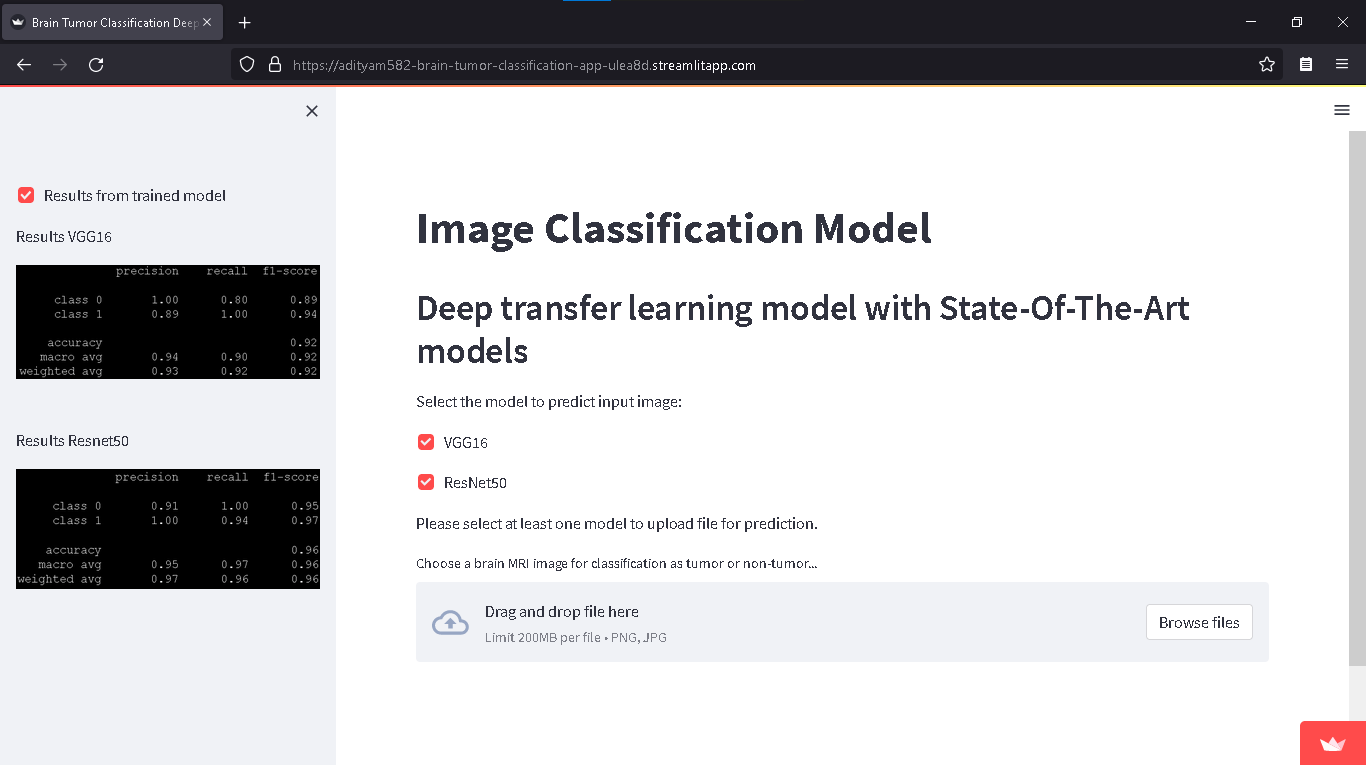
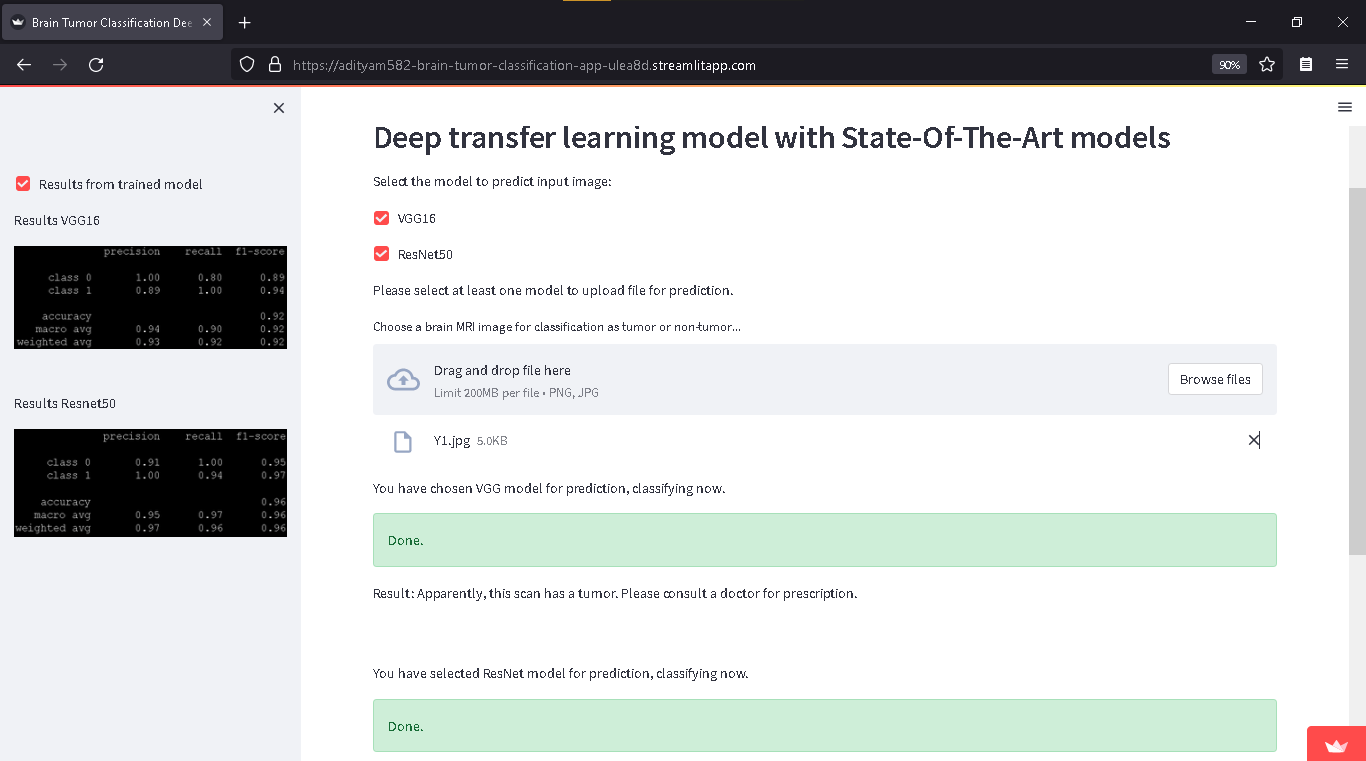
portfolio

diff --git a/_pages/myportfolio.md b/_pages/myportfolio.md
@@ -21,34 +21,67 @@ collection: portfolio
 
 * This is an end-to-end machine learning lifecycle project, when I started from picking the dataset up to deploying as a web application. This helped me learn various nuance of a ML project development. 
 
+* We follow ML workflow as depicted in the figure below
+
+Machine Learning Workflow
+
+![ML Workflow](../images/ML_Workflow.png 'size=20')
+
+Image Credits: Strata London - Deep Learning, Turi, Inc. [link](http://www.slideshare.net/turi-inc/strata-london-deep-learning-052015)
+
+* After the ML Model is created, we use transfer learning, with workflow as shown below:
+
+Transfer Learning Workflow
+
+![Transfer Learning Workflow](../images/TL_Workflow.jpg)
+
+Image Credits: big-data-and-business-intelligence, Packtpub [link](https://subscription.packtpub.com/book/big_data_and_business_intelligence/9781788831307/1/ch01lvl1sec13/standard-ml-workflow)
+
 * This is a project, making computers to learn to predict, if an image contains traces of tumor. 
+
+* **Skills:** Python, Tensorflow, Keras, Numpy, Pandas, Streamlit, Heroku
 
 * Sounds interesting, want to try out yourself? Simply use any webpage and upload image.
 
-Click here to use application deployed on [Streamlit](https://adityam582-brain-tumor-classification-app-ulea8d.streamlitapp.com/)
+This is the screenshot from deployed web application:
+![DL Project](../images/DL_project_NeuroAI.png)
 
-Click here to use application deployed on [Heroku](https://neuroai-image-classifier.herokuapp.com/)
+* Click here to use application deployed on [Streamlit](https://adityam582-brain-tumor-classification-app-ulea8d.streamlitapp.com/)
 
-**Skills:** Python, Tensorflow, Keras, Numpy, Pandas, Streamlit
-
-![Adityam582.github.io\images\DL_project_NeuroAI.png](DL_project_NeuroAI.png)
-
-![DL_project_NeuroAI.png](Adityam582.github.io\images\DL_project_NeuroAI.png)
+* Click here to use application deployed on [Heroku](https://neuroai-image-classifier.herokuapp.com/)
 
 
 
+<!-- ![https://Adityam582.github.io\images\DL_project_NeuroAI.png](DL_project_NeuroAI.png)
+
+![DL_project_NeuroAI.png](https://Adityam582.github.io\images\DL_project_NeuroAI.png)
+ -->
+<!-- 
+[![DL Project](https://Adityam582.github.io\images\DL_project_NeuroAI.png)](https://adityam582.github.io) -->
 
 ## New York City Taxi Trip Data Analysis (Big Data: Data Analysis)
 
-* The purpose of our project is to study and analyse traffic patterns and insights from the data obtained from a fleet of taxi operating in New York City. 
+* **Purpose:** to analyse traffic patterns and insights from New York City's taxi data. 
 
-* With exploratory data analysis, we tried to implement some machine learning algorithm for prediction of fare amounts based on different features. 
+* **Methodology**: exploratory data analysis and created machine learning algorithm for prediction of fare amounts based on different features 
 
-* Use cases can be for **Traffic Optimization** and **Financial Analysis**.
+* **Use cases:** Traffic Optimization and Financial Analysis
 
 **Technologies/Tools:** Spark on a distributed cluster with 4 servers, PySpark, SQL API, Pandas, Matplotlib, Seaborn 
 
 * Please check the complete report: [click here](https://adityam582.github.io/files/BigDataProjectReport.pdf)
+
+* **Results**
+
+Daily trips
+
+![Daily Trips](../images/trips_daily.png)
+
+Average distance per ride for weekday trips
+
+![Weekdays Trip Distances](../images/trips_weekdays_distances.png)
+
+
 
 ## Sensors Data Analytics (IoT: Data Analytics)
 
@@ -60,9 +93,39 @@ Click here to use application deployed on [Heroku](https://neuroai-image-classif
 
 * Please check the complete report: [click here](https://adityam582.github.io/files/IOTExercise2.pdf)
 
+* **Results**
+
+IoT Sensor locations on map of Tellus - Uni Oulu
+
+![Sensor locations](../images/sensorlocs.png)
+
+Motion Activity - Areas
+
+![Motion activity](../images/sensormotionactivity.png)
+
+Motion activity throughout year
+
+![Motion activity year](../images/sensormotionactivitydaysyear.png)
+
+
+
 ## Indian Elections Analysis (Computational Social Science: Data Analysis)
 
-* The purpose of this project is to study different factors and reasons on how women participation has changed in Indian national elections over period 1977-2014.
+* **Purpose**: to analyze factors of women participation in Indian national elections over period 1977-2014.
+
+* **Results**
+
+Representation of women in Indian elections
+
+![women representation](../images/indianelectionwomenparticipation.png)
+
+Winning women representation from political parties
+
+![winning women parties](../images/indianelectionwomenparticipationwinparties.png)
+
+Vote share and Year-on-Year growth
+
+![vote share and YoY growth](../images/indianelectionwomenparticipationvoteshareyoygrowth.png)
 
 * Please check the complete report: [click here](https://adityam582.github.io/files/CSSProjectReport.pdf)
 
@@ -70,29 +133,52 @@ Click here to use application deployed on [Heroku](https://neuroai-image-classif
 
 ## Digital Consumer Behavior
 
-* Title: Influence of micro moments on the customer journey 
+* **Title**: Influence of micro moments on the customer journey 
+
+* **Abstract**: The overall aim of this paper is to explore the influence of Micro moments in customer’s journey. This paper helps to have a better understanding of customer’s journey and the usage of micro
+moments for successful business. Two third of world population are using mobile devices, the usage of mobile had influenced human behavior in socializing, finding new data and buying products. In this paper the human behavior and strategies used in business are analyzed using the concepts of economics. The study done here shows micro moments are intent-rich moments which influence the decision making in a customer jouney. During this moments the expectation of users are high and those who satisfy their expectation will have successful business (Sridhar Rama swamy/april2015). The paper provides an insight of various studies done on user micro –
+moments to specify the importance of micro moments in modern marketing. The case studies done during this research shows the tremendous success obtained after utilizing micro-moments. The studies suggest to use the various online tools to increase the online presence which gather the attention of consumers. Providing them the service without lake of time catalysis their interest towards company. The online reviews collected helps to gather higher number of customers. An attempt is taken to provide an overview of recent studies from various sources about the changes in online user experience
 
 * Please check the complete report: [click here](https://adityam582.github.io/files/DigitalConsumerBehaviorSeminarReport.pdf)
 
 ## Research Lab
 
-* Title: Early Mover Advantage on GitHub 
+* **Title**: Early Mover Advantage on GitHub 
+
+* **Abstract:** Collaborative consensus-finding is an integral element of many Web services and greatly determines the quality of information, content, and products that are available through the Web. That
+also means that the dynamics of democratic consensus-finding strengthen collective resilience against potential threats that attempt to degrade information, content, and products and affect Web data, users, behaviors, and even beyond as well as offline life. Even on Web platforms that are open to all, the influence of some first mover authors may shape future discussion and collaboration, which is comparable to academic citation networks for instance. In a social coding network such as GitHub, activities of a set of users can have influence on other users who can get interested in further actions, possibly contributing to a new project together with influential users. In this paper, we analyze the effect of con-
+tribution activities on gaining influence in this and comparable networks that provide users the functionality and aims for reaching collaborative goals on the Web. For this purpose, we present an
+empirical approach to identify the top influential users by using network features and contribution characteristics, which we find in existing and newly collected data set. We find that early adopter
+dynamics exist in the GitHub community, where early adopters have more followers in the end as expected. However, we also see counterexamples that arise due to the social networking behavior of late adopters, and due to the aging effect of older repositories and users. We publicly share the source code and the data sets for reproducing our paper.
 
 * Please check the complete report: [click here](https://adityam582.github.io/files/ResearchReportFirstMoverAdvantageGitHub.pdf)
 
 ## Big Data
 
-* Title: Edge Computing
+* **Title**: Edge Computing
+
+* **Abstract**: With the advancement in network availability, continuous adoption of internet and cloud computing technologies, the number of internet users have increased phenomenally. With this proliferation of the number of devices connected to the internet, there is an unprecedented need for data processing and
+storage. Traditionally, the data has been sent from the source to the data centres for processing through the internet. However, with billions of devices on the internet, data generation speed has been comparatively higher than data transmission speed. Cloud computing often involves latency due to back and forth
+data transmission, therefore it is proving to be inadequate for time-sensitive applications. Edge computing paradigm suggests that rather than transmitting data through the constrained networks, the computation can be moved near the source of data, which can solve issues of latency, bandwidth, privacy and security as well. The objective of this paper is to provide an overview of edge computing, technological implementations, advantages, use cases, challenges and further research problems.
 
 * Please check the complete report: [click here](https://adityam582.github.io/files/BigDataSeminarReportEdge_Computing.pdf)
 
 ## ICT and Behavior Change
 
-* Title: Towards a healthy use of Facebook in everyday life
+* **Title**: Towards a healthy use of Facebook in everyday life
+
+* **Abstract**: There has been extensive research about the negative effects of problematic Facebook use
+on the subjective well-being of people. Recently, several studies focused on measuring the positive effects
+on well-being by Information and Communication Technologies (ICT) enabled intervention to reduce
+everyday Facebook usage. This study conducts a literature review to explore the positive and negative
+aspects of Facebook use for different usage styles. Also, it extends to identify empirical evidence from
+existing studies about intervention models to reduce Facebook use, which can potentially benefit the
+subjective well-being of users.
 
 * Please check the complete report: [click here](https://adityam582.github.io/files/ICT_Seminar_Paper.pdf)
 
 ## Master Thesis 
 
-* Title: Graph Representation Learning for Software Engineering
+* **Title**: Graph Representation Learning for Software Engineering
 
+* Work-in-progress, coming soon here
